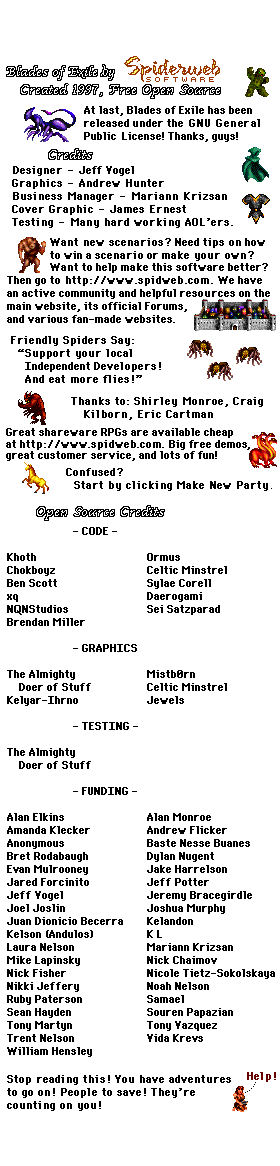
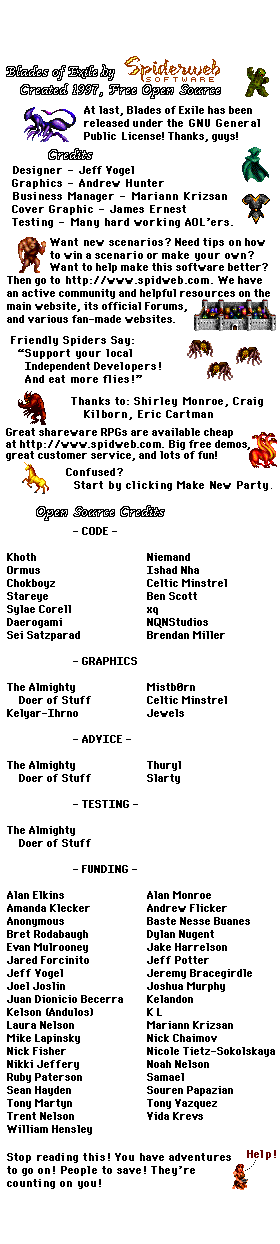
Credit more people (#491)

Changed region(s): [[0.0, 0.0309, 1.0, 0.9571], [0.7429, 0.8954, 0.9143, 0.9571], [0.7429, 0.5557, 0.7714, 0.6175]]

diff --git a/pkg/generate-credits.py b/pkg/generate-credits.py
@@ -57,6 +57,9 @@ def main():
         # {{2}}: '<br/>' * (# of artists)
         content = content.replace('{{2}}', '<br/>' * num_dict['Graphics'])
 
+        # {{9}}: '<br/>' * (# of consultants)
+        content = content.replace('{{9}}', '<br/>' * num_dict['Advice'])
+
         # {{3}}: '<br/>' * (# of testers)
         content = content.replace('{{3}}', '<br/>' * num_dict['Testing'])
         
@@ -72,6 +75,10 @@ def main():
         # {{6}}: Artist name lines
         name_lines = list_break.join(name_dict["Graphics"]) + list_break
         content = replace_tabbed_lines('{{6}}', name_lines, 7)
+
+        # {{10}}: Consulting name lines
+        name_lines = list_break.join(name_dict["Advice"]) + list_break
+        content = replace_tabbed_lines('{{10}}', name_lines, 8)
 
         # {{7}}: Tester name lines
         name_lines = list_break.join(name_dict["Testing"]) + list_break
@@ -123,6 +130,7 @@ def main():
 
         add_heading('Code')
         add_heading('Graphics')
+        add_heading('Advice')
         add_heading('Testing')
         add_heading('Funding')
 
